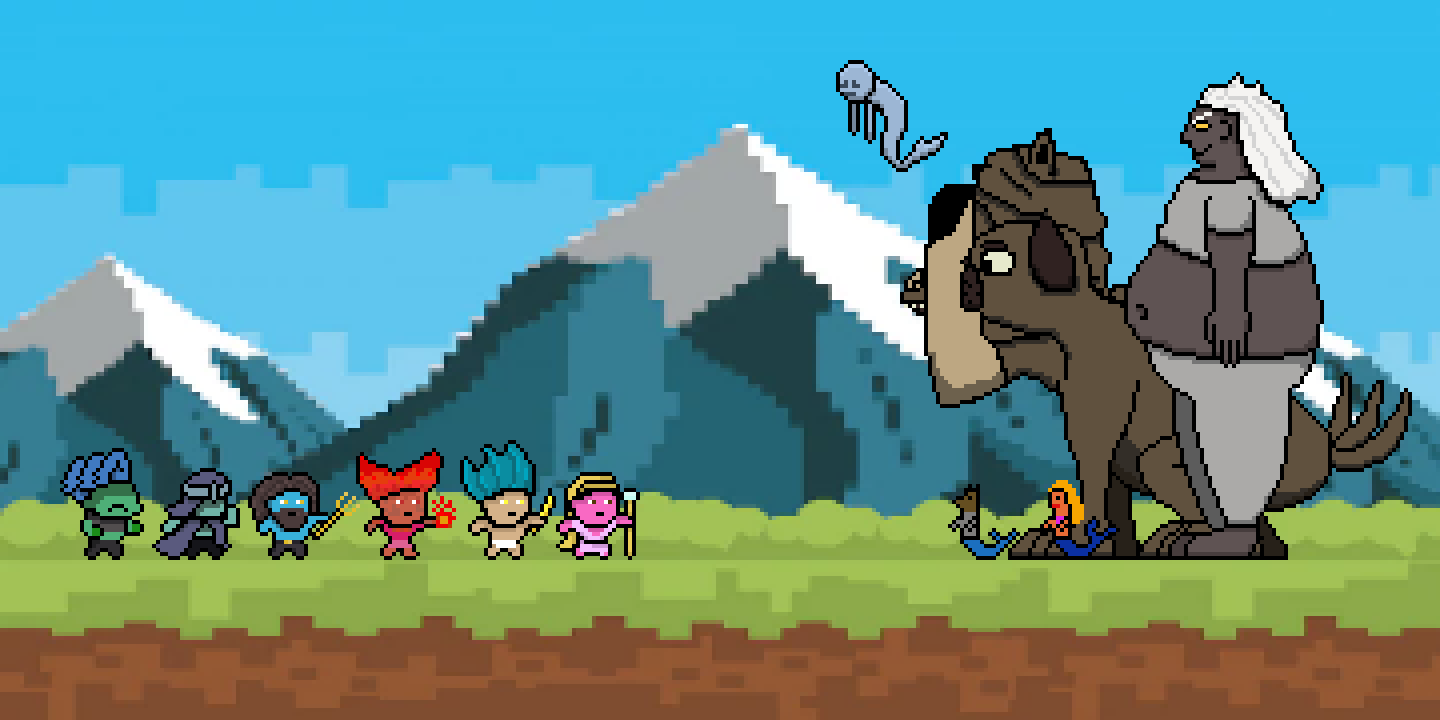
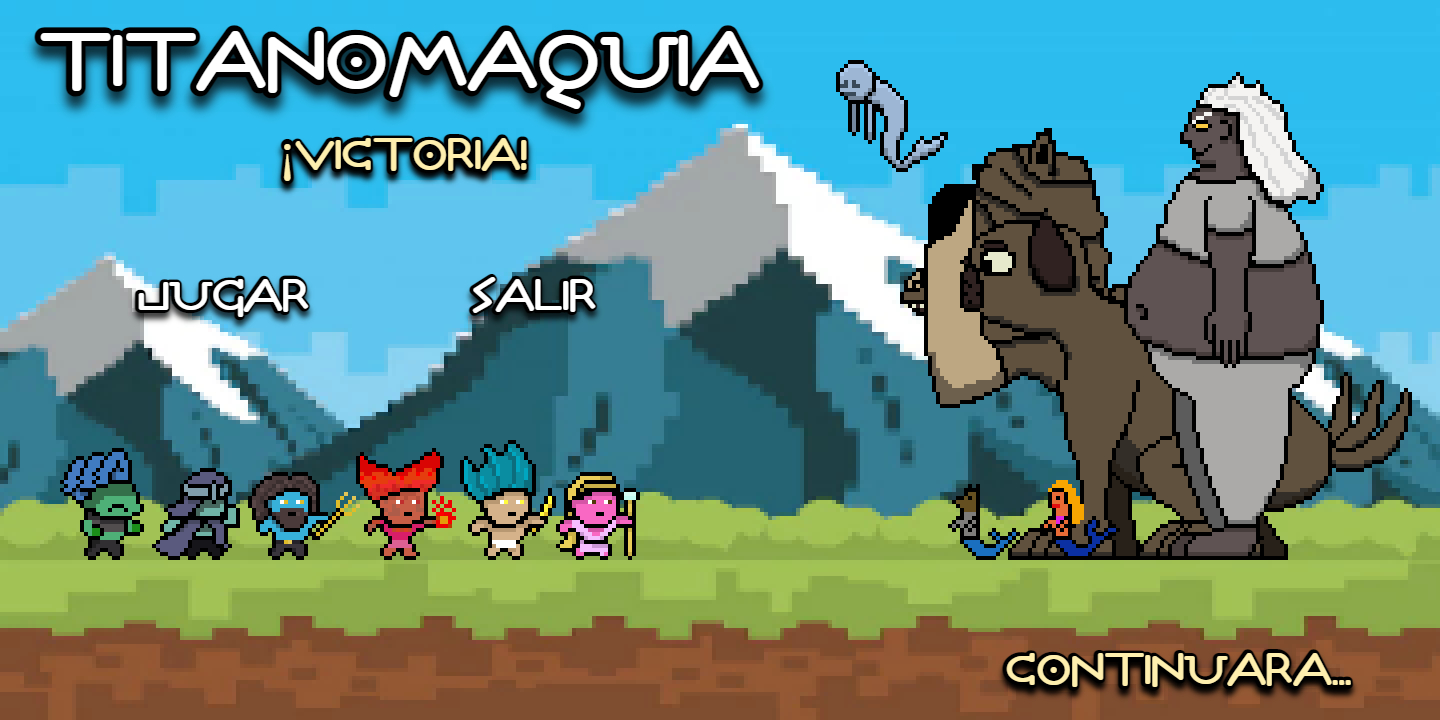
Pantalla final victoria y bugs

diff --git a/src/scenes.py b/src/scenes.py
@@ -179,7 +179,7 @@ class Phase(Scene):
                     interactableGroup.add(key)
                 elif level[i][j] == "I":
                     pGuard = PracticeGuard((j*self.tileSize), (i*self.tileSize)-(l*self.tileSize-self.screenHeight))
-                    interactableGroup.add(pGuard)
+                    destructableGroup.add(pGuard)
                 elif level[i][j] == "J":
                     enemy = Mermaids((j*self.tileSize), (i*self.tileSize)-(l*self.tileSize-self.screenHeight-10), self)
                     enemyGroup.add(enemy)
@@ -356,7 +356,7 @@ class SubTemple(Phase):
                 Config.availableCharacters.append("Poseidon")
             Config.availableLevels.remove("TemploSubmarino")
             if Config.availableLevels == []:
-                self.director.changeScene(Menu(self.director))
+                self.director.stackScene(WinMenu(self.director))
             else:
                 self.director.changeScene(LevelSelectionMenu(self.director))
 
@@ -429,7 +429,7 @@ class Hell(Phase):
                 Config.availableCharacters.append("Hades")
             Config.availableLevels.remove("Infierno")
             if Config.availableLevels == []:
-                self.director.changeScene(Menu(self.director))
+                self.director.stackScene(WinMenu(self.director))
             else:
                 self.director.changeScene(LevelSelectionMenu(self.director))
 
@@ -611,8 +611,6 @@ class DeathMenu(Scene):
             #Comprobar si se quiere salir
             if event.type == pygame.QUIT:
                 self.director.exitGame()
-            if event.type == KEYDOWN and event.key == K_ESCAPE:
-                self.resumeGame()
 
         self.screens[self.currentScreen].events(eventList)
 
@@ -629,6 +627,45 @@ class DeathMenu(Scene):
     def retry(self):
         self.director.scenes = []
         Config.availableCharacters = ["Hera", "Hestia", "Demeter"]
+        self.director.changeScene(Menu(self.director))
+
+
+    def showScreen(self):
+        self.currentScreen = 0
+
+
+
+class WinMenu(Scene):
+    def __init__(self, director):
+        super().__init__(director)
+
+        self.screens = []
+        self.screens.append(WinScreen(self))
+        self.showScreen()
+
+    def update(self, *args):
+        return
+
+    def events(self, eventList):
+        for event in eventList:
+            #Comprobar si se quiere salir
+            if event.type == pygame.QUIT:
+                self.director.exitGame()
+
+        self.screens[self.currentScreen].events(eventList)
+
+    def draw(self, screen):
+        self.screens[self.currentScreen].draw(screen)
+
+
+    def exitGame(self):
+        self.director.exitGame()
+
+    def changeToOptions(self):
+        self.currentScreen = 1
+
+    def retry(self):
+        self.director.scenes = []
         self.director.changeScene(Menu(self.director))
 
 

diff --git a/src/gui.py b/src/gui.py
@@ -348,3 +348,13 @@ class DeathScreen(GUIScreen):
 
         self.GUIElements.append(retryButton)
         self.GUIElements.append(quitButton)
+
+class WinScreen(GUIScreen):
+    def __init__(self, menu):
+        super().__init__(menu, "Menu/Fondo final.png", None)
+        retryButton = RetryButton(self, "Menu/fondo.png", (200, 265))
+        quitButton = QuitButton(self, "Menu/fondo.png", (480, 265))
+
+
+        self.GUIElements.append(retryButton)
+        self.GUIElements.append(quitButton)
